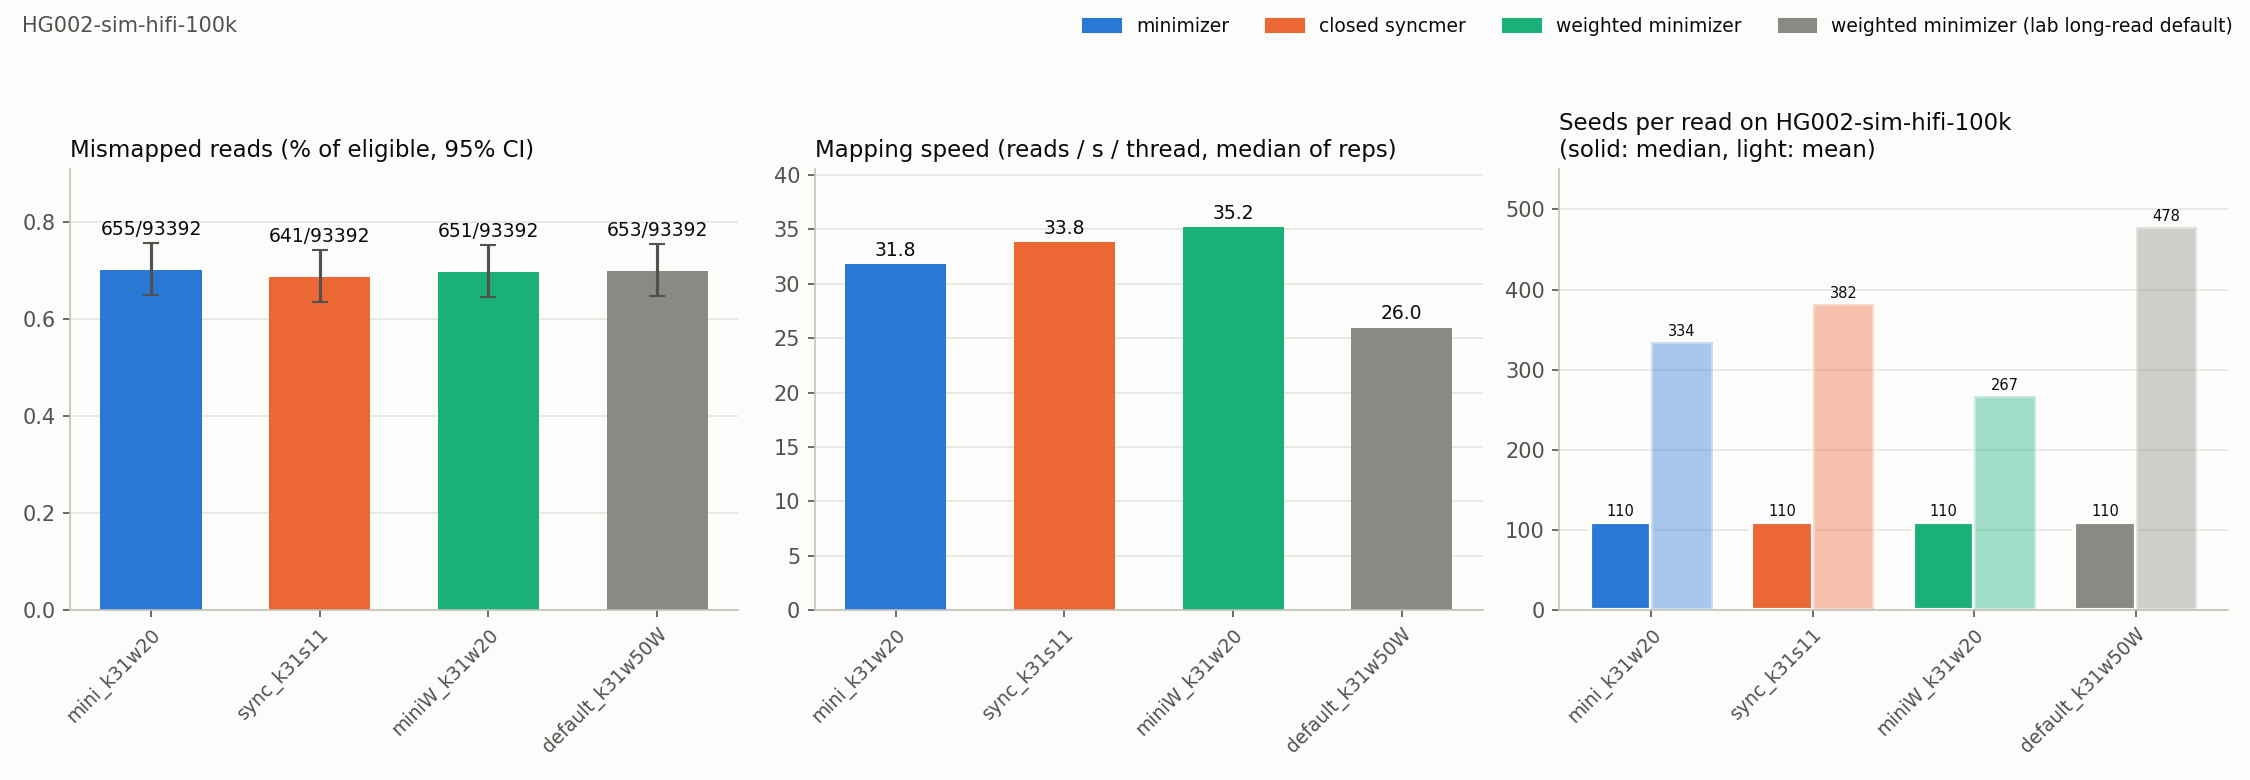
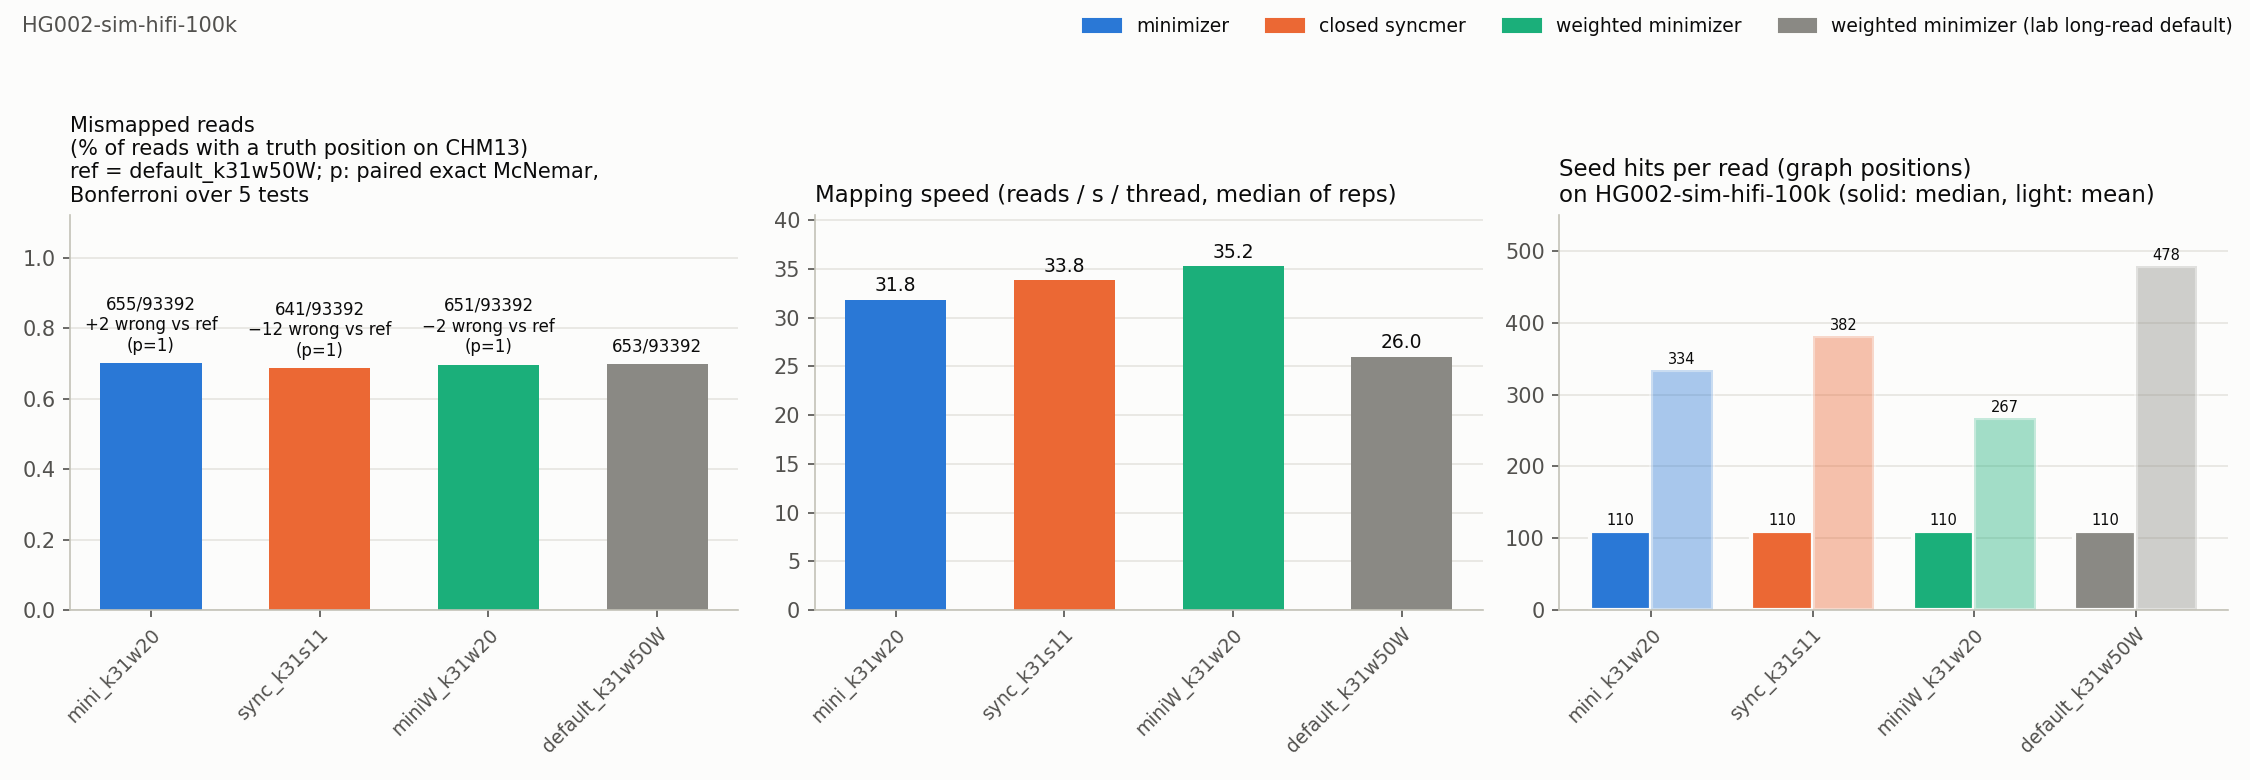
Paired McNemar accuracy comparison; no error bars on accuracy
collect writes mcnemar.tsv per read set: exact two-sided McNemar on per-read
correctness for every condition against the reference group and, within each
density group, every other method against the minimizer label, with
Bonferroni correction over the table's tests. It checks that compare.tsv and
results.tsv agree on mismapped counts. The accuracy panels drop the Wilson
error bars; comparison.png labels each bar with the mismapped-read difference
against the reference and its corrected p. Plot labels now read "% of reads
with a truth position on CHM13" and "Seed hits per read (graph positions)".
Snapshots for 1k, 10k and 100k updated; results.tsv unchanged.

diff --git a/seed_eval.py b/seed_eval.py
@@ -531,7 +531,8 @@ RESULT_COLUMNS = [
 ]
 
 
-SNAPSHOT_FILES = ["results.tsv", "comparison.png", "density_sweep.png", "filter_summary.tsv", "minimizer_summary.tsv"]
+SNAPSHOT_FILES = ["results.tsv", "mcnemar.tsv", "comparison.png", "density_sweep.png",
+                  "filter_summary.tsv", "minimizer_summary.tsv"]
 
 
 def grep_first(path, pattern, cast=float):
@@ -653,17 +654,71 @@ def format_value(value):
     return str(value)
 
 
-def wilson_interval(successes, n, z=1.96):
-    """95% Wilson score interval for a binomial proportion."""
-    p = successes / n
-    centre = (p + z * z / (2 * n)) / (1 + z * z / n)
-    half = z * math.sqrt(p * (1 - p) / n + z * z / (4 * n * n)) / (1 + z * z / n)
-    return centre - half, centre + half
+REFERENCE_GROUP = "reference"  # density_group of the condition every other one is tested against
+BASELINE_LABEL = "minimizer"  # within a density group, the other methods are tested against this label
+MCNEMAR_COLUMNS = ["family", "condition", "against", "eligible_both", "wrong_condition", "wrong_against",
+                   "only_condition_correct", "only_against_correct", "net_reads", "net_percent",
+                   "p_exact", "m_tests", "p_bonferroni"]
+
+
+def mcnemar_exact(b, c):
+    """Two-sided exact McNemar p-value: if both conditions are equally accurate, b ~ Binomial(b + c, 1/2)."""
+    n = b + c
+    if n == 0:
+        return 1.0
+    tail = sum(math.comb(n, i) for i in range(min(b, c) + 1)) / 2 ** n
+    return min(1.0, 2 * tail)
+
+
+def primary_compare(c, reads_set):
+    """compare.tsv of the run accuracy is read from: rep1 when the condition has replicates, else the single run."""
+    o = DATA_DIR / "results" / reads_set / c["name"]
+    return o / "rep1" / "compare.tsv" if (o / "rep1" / "compare.tsv").is_file() else o / "compare.tsv"
+
+
+def mcnemar_table(rows, reads_set):
+    """Paired exact McNemar tests on per-read correctness: every condition against the reference group, and
+    every other method against BASELINE_LABEL within each density group. Bonferroni over all tests of this
+    read set. net_reads = only_condition_correct - only_against_correct (positive: condition is better)."""
+    pairs = []
+    reference = [r for r in rows if r["density_group"] == REFERENCE_GROUP]
+    if reference:
+        pairs += [("vs_reference", r, reference[0]) for r in rows if r["density_group"] != REFERENCE_GROUP]
+    for group in dict.fromkeys(r["density_group"] for r in rows if r["density_group"] != REFERENCE_GROUP):
+        members = [r for r in rows if r["density_group"] == group]
+        for base in [r for r in members if r["label"] == BASELINE_LABEL][:1]:
+            pairs += [(f"within_{group}", r, base) for r in members if r is not base]
+    per_read = {}
+    for r in rows:
+        per_read[r["name"]] = read_compare(primary_compare(r, reads_set))
+        wrong = sum(1 for eligible, correct, mq in per_read[r["name"]].values() if eligible and not correct)
+        if wrong != r["wrong"]:
+            sys.exit(f"{r['name']}: compare.tsv has {wrong} wrong reads but results.tsv has {r['wrong']}")
+    tests = []
+    for family, a, b in pairs:
+        A, B = per_read[a["name"]], per_read[b["name"]]
+        shared = [read for read, (eligible, correct, mq) in A.items() if eligible and read in B and B[read][0]]
+        only_a = sum(1 for read in shared if A[read][1] and not B[read][1])
+        only_b = sum(1 for read in shared if B[read][1] and not A[read][1])
+        tests.append({"family": family, "condition": a["name"], "against": b["name"], "eligible_both": len(shared),
+                      "wrong_condition": sum(1 for read in shared if not A[read][1]),
+                      "wrong_against": sum(1 for read in shared if not B[read][1]),
+                      "only_condition_correct": only_a, "only_against_correct": only_b,
+                      "net_reads": only_a - only_b, "net_percent": 100 * (only_a - only_b) / len(shared),
+                      "p_exact": mcnemar_exact(only_a, only_b)})
+    for t in tests:
+        t["m_tests"] = len(tests)
+        t["p_bonferroni"] = min(1.0, t["p_exact"] * len(tests))
+    return tests
+
+
+def signed(n):
+    """+3, −5 (true minus sign) or ±0 for plot labels."""
+    return "±0" if n == 0 else (f"+{n}" if n > 0 else f"−{-n}")
 
 
 METHOD_COLORS = ["#2a78d6", "#eb6834", "#1baf7a"]  # categorical slots 1-3 of the reference palette
 REFERENCE_COLOR = "#8a8984"
-REFERENCE_GROUP = "reference"
 MAX_LABELLED_CONDITIONS = 6  # above this, bars carry no value labels
 
 
@@ -705,7 +760,7 @@ def plot_order(rows, colors):
                                        method_rank.get(r["label"], len(method_rank)), -nominal_density(r)))
 
 
-def plot_comparison(rows, path, reads_set):
+def plot_comparison(rows, path, reads_set, tests=()):
     import matplotlib
     matplotlib.use("Agg")
     import matplotlib.pyplot as plt
@@ -726,18 +781,26 @@ def plot_comparison(rows, path, reads_set):
     fig, axes = plt.subplots(1, panels, figsize=(panels * max(5, 0.55 * len(rows) + 1.5), 5.2))
     ax_err, ax_speed = axes[0], axes[1]
     error = [100 * r["wrong"] / r["eligible"] for r in rows]
-    bounds = [wilson_interval(r["wrong"], r["eligible"]) for r in rows]
-    yerr = [[e - 100 * lo for e, (lo, hi) in zip(error, bounds)],
-            [100 * hi - e for e, (lo, hi) in zip(error, bounds)]]
     ax_err.bar(x, error, color=colors, width=0.6)
-    ax_err.errorbar(x, error, yerr=yerr, fmt="none", ecolor=muted, elinewidth=1.5, capsize=4)
+    # No error bars: conditions map the same reads, so differences are judged by the paired test.
+    vs_reference = {t["condition"]: t for t in tests if t["family"] == "vs_reference"}
     for i, r in zip(x, rows):
         if labelled:
-            ax_err.annotate(f"{r['wrong']}/{r['eligible']}", (i, 100 * bounds[i][1]), xytext=(0, 4),
-                            textcoords="offset points", ha="center", fontsize=9, color=ink)
-    ax_err.set_title("Mismapped reads (% of eligible, 95% CI)", fontsize=11, color=ink, loc="left")
-    # Leave room above the tallest CI whisker for its count label.
-    ax_err.set_ylim(0, 1.2 * max(100 * hi for lo, hi in bounds))
+            label = f"{r['wrong']}/{r['eligible']}"
+            t = vs_reference.get(r["name"])
+            if t:
+                label += f"\n{signed(t['wrong_condition'] - t['wrong_against'])} wrong vs ref\n(p={t['p_bonferroni']:.2g})"
+            ax_err.annotate(label, (i, error[i]), xytext=(0, 4), textcoords="offset points",
+                            ha="center", va="bottom", fontsize=8, color=ink)
+    title = "Mismapped reads\n(% of reads with a truth position on CHM13)"
+    if vs_reference and labelled:
+        reference = next(iter(vs_reference.values()))
+        title += (f"\nref = {reference['against']}; p: paired exact McNemar,\n"
+                  f"Bonferroni over {reference['m_tests']} tests")
+    elif tests:
+        title += "\npaired tests: see mcnemar.tsv"
+    ax_err.set_title(title, fontsize=10, color=ink, loc="left")
+    ax_err.set_ylim(0, max(error) * (1.6 if labelled else 1.15))
 
     speed = [r["reads_per_sec_per_thread"] or 0 for r in rows]
     ax_speed.bar(x, speed, color=colors, width=0.6)
@@ -767,7 +830,7 @@ def plot_comparison(rows, path, reads_set):
                                       ha="center", fontsize=7, color=ink)
         top = max(r.get("seeds_per_read_mean") or 0 for r in rows)
         ax_seeds.set_ylim(0, 1.15 * top if top > 0 else 1)
-        ax_seeds.set_title(f"Seeds per read on {reads_set}\n(solid: median, light: mean)",
+        ax_seeds.set_title(f"Seed hits per read (graph positions)\non {reads_set} (solid: median, light: mean)",
                            fontsize=11, color=ink, loc="left")
 
     for ax in axes:
@@ -804,15 +867,11 @@ def plot_density_sweep(rows, path, reads_set):
     point = dict(marker="o", ms=7, markeredgecolor="#fcfcfb", markeredgewidth=1.5)
 
     fig, (ax_err, ax_seeds, ax_mem) = plt.subplots(1, 3, figsize=(16, 5.2))
-    for index, (label, color, members) in enumerate(series):
-        # Methods sit at nearly the same density, so nudge their error bars apart (display only).
-        dodge = (index - (len(method_color) - 1) / 2) * 0.0025 if index < len(method_color) else 0.0
-        xs = [r["density_reads"] + dodge for r in members]
+    top_error = 0.0
+    for label, color, members in series:
         error = [100 * r["wrong"] / r["eligible"] for r in members]
-        bounds = [wilson_interval(r["wrong"], r["eligible"]) for r in members]
-        ax_err.errorbar(xs, error, yerr=[[e - 100 * lo for e, (lo, hi) in zip(error, bounds)],
-                                         [100 * hi - e for e, (lo, hi) in zip(error, bounds)]],
-                        color=color, ecolor=color, lw=2, elinewidth=1.2, capsize=3, label=label, **point)
+        top_error = max([top_error] + error)
+        ax_err.plot([r["density_reads"] for r in members], error, color=color, lw=2, label=label, **point)
         seeds = [m for m in members if m.get("seeds_per_read_mean") is not None]
         ax_seeds.plot([m["density_reads"] for m in seeds], [m["seeds_per_read_mean"] for m in seeds],
                       color=color, lw=2, **point)
@@ -821,14 +880,15 @@ def plot_density_sweep(rows, path, reads_set):
         mem = [m for m in members if m.get("giraffe_mem_gb") is not None]
         ax_mem.plot([m["density_reads"] for m in mem], [m["giraffe_mem_gb"] for m in mem], color=color, lw=2, **point)
 
-    titles = ["Mismapped reads (% of eligible, 95% CI)",
-              f"Seeds per read on {reads_set}\n(solid: mean, dashed: median)",
+    titles = ["Mismapped reads\n(% of reads with a truth position on CHM13)",
+              f"Seed hits per read (graph positions)\non {reads_set} (solid: mean, dashed: median)",
               "Giraffe memory (GB)"]
     for ax, title in zip((ax_err, ax_seeds, ax_mem), titles):
         ax.set_title(title, fontsize=11, color=ink, loc="left")
         ax.set_xlabel("Measured seed density on reads (seeds / bp)", color=muted)
         ax.set_ylim(bottom=0)
         style_axes(ax)
+    ax_err.set_ylim(0, 1.15 * top_error)  # keep the highest point (often the reference) off the frame
     handles, labels = ax_err.get_legend_handles_labels()
     fig.legend(handles, labels, loc="upper right", ncol=len(labels), frameon=False, fontsize=9, labelcolor=ink)
     fig.suptitle(reads_set, fontsize=10, color=muted, x=0.01, ha="left")
@@ -863,9 +923,11 @@ def collect(conditions, reads, snapshot=False):
     inconsistent = [r["name"] for r in rows if r.get("reps_consistent") == "no"]
     if inconsistent:
         print(f"WARNING: replicates disagree on the number of correct reads: {inconsistent}")
+    tests = mcnemar_table(rows, reads_set) if rows else []
+    write_table(out_dir / "mcnemar.tsv", MCNEMAR_COLUMNS, tests)
     if rows:
         plot = out_dir / "comparison.png"
-        plot_comparison(rows, plot, reads_set)
+        plot_comparison(rows, plot, reads_set, tests)
         print(f"wrote {plot}")
         sweep = out_dir / "density_sweep.png"
         if plot_density_sweep(rows, sweep, reads_set):

diff --git a/README.md b/README.md
@@ -147,7 +147,7 @@ the `sbatch` command line; the generated scripts do not change.
 | map | `python3 seed_eval.py map --reads GAM [--reps N] --submit` | `results/<reads>/<name>/`: `mapped.gam`, `annot.gam`, `compare.tsv`, `gamcompare.txt`, `giraffe.log`, `stats.txt`, `*.time`, `report.tsv`, `run_info.tsv` |
 | density | `python3 seed_eval.py density --reads GAM --submit` | `results/<reads>/<name>/density/`: `prov.gam`, `per_read.tsv`, `density_summary.tsv` |
 | filters | `python3 seed_eval.py filters --reads GAM --submit` | one job for all conditions: `results/<reads>/filter_summary.tsv`, `minimizer_summary.tsv` (+ per-condition copies in `density/`) |
-| collect | `python3 seed_eval.py collect --reads GAM [--snapshot]` | runs locally: `results/<reads>/results.tsv`, `comparison.png`, `density_sweep.png`; `--snapshot` copies them and the filter/minimizer summaries to `results_summary/<reads>/` |
+| collect | `python3 seed_eval.py collect --reads GAM [--snapshot]` | runs locally: `results/<reads>/results.tsv`, `mcnemar.tsv`, `comparison.png`, `density_sweep.png`; `--snapshot` copies them and the filter/minimizer summaries to `results_summary/<reads>/` |
 | fingerprint | `python3 seed_eval.py fingerprint --reads GAM [--run-tag TAG] --submit` | one job per run that has a `mapped.gam` (`<name>/rep*`, or `<name>/TAG/rep*`): `fingerprint.tsv` in the run directory |
 | determinism | `python3 seed_eval.py determinism --reads GAM --run-tag TAG` | runs locally: `results/<reads>/determinism/summary.tsv`, `reads.tsv` |
 
@@ -210,21 +210,41 @@ To test mapping determinism: `map --run-tag det --reps 3 --keep-gams --fixed-nod
 
 ### Plots
 
-`comparison.png` has one bar per condition: mismapped reads as % of eligible with a
-95% Wilson interval, mapping speed, and seeds per read on the same read set (solid
-bar: median, light bar: mean). Conditions are grouped by method (`label`), densest
-first within a method, with the `reference` group last; each method has its own
-color and the reference is gray. With more than 6 conditions the bars carry no value
-labels. If the read set has no replicates, the speed panel is titled "single run, not
-for comparison". Seed columns are only filled from a density run on the same read
-set; without one they are `NA`, and if no condition has one the seeds panel is left out.
+`comparison.png` has one bar per condition: mismapped reads as % of reads with a truth
+position on CHM13 (`eligible`), mapping speed, and seed hits per read (graph positions)
+on the same read set (solid bar: median, light bar: mean). There are no error bars on
+accuracy: every condition maps the same reads, so differences are judged with the
+paired test in `mcnemar.tsv`. With at most 6 conditions each bar is labelled
+`wrong/eligible` and, for non-reference conditions, the difference in mismapped reads
+against the reference with its Bonferroni-corrected p, e.g. `−12 wrong vs ref (p=1)`
+(negative: fewer mismapped reads than the reference); with more conditions the bars
+carry no labels. Conditions are grouped by method (`label`), densest first within a
+method, with the `reference` group last; each method has its own color and the
+reference is gray. If the read set has no replicates, the speed panel is titled
+"single run, not for comparison". Seed columns are only filled from a density run on
+the same read set; without one they are `NA`, and if no condition has one the seeds
+panel is left out.
 
 `density_sweep.png` is drawn only when the read set has results at two or more
 density groups. Its x axis is the measured density on reads (`density_reads`); the
-three panels show mismapped reads (% of eligible, 95% Wilson interval), seeds per read
-(mean solid, median dashed) and giraffe memory. Each method is one line and reference
-conditions are gray points. In the error panel the methods are shifted slightly apart
-along x so their intervals do not overlap; the shift is for display only.
+three panels show mismapped reads (% of reads with a truth position on CHM13), seed
+hits per read (mean solid, median dashed) and giraffe memory. Each method is one line
+and reference conditions are gray points.
+
+### mcnemar.tsv (paired accuracy comparison)
+
+`collect` compares conditions read by read on the same eligible reads, using each
+condition's `rep1/compare.tsv` (or its single run). Tested pairs: every condition
+against the `reference` group, and within each density group every other method
+against the `minimizer` label. Only discordant reads matter: `only_condition_correct`
+(b) and `only_against_correct` (c). `p_exact` is the two-sided exact McNemar test
+(b ~ Binomial(b + c, 1/2) if the two conditions are equally accurate);
+`p_bonferroni = min(1, p_exact × m_tests)`, with `m_tests` the number of tests in this
+read set's table. `net_reads = b − c` (positive: the condition gets more reads right
+than `against`), `net_percent` is the same as % of `eligible_both`.
+`wrong_condition` and `wrong_against` are the mismapped counts on the shared reads.
+`collect` stops if a condition's `compare.tsv` and `results.tsv` disagree on the number
+of mismapped reads.
 
 ### Filter summaries
 
